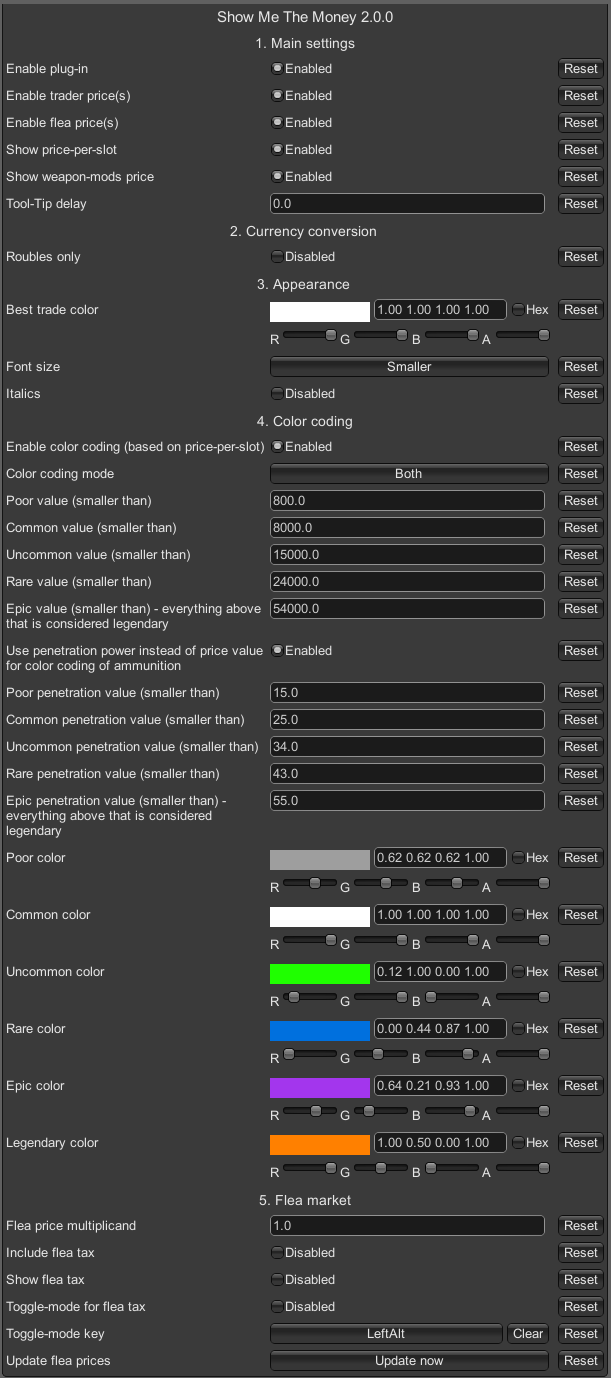
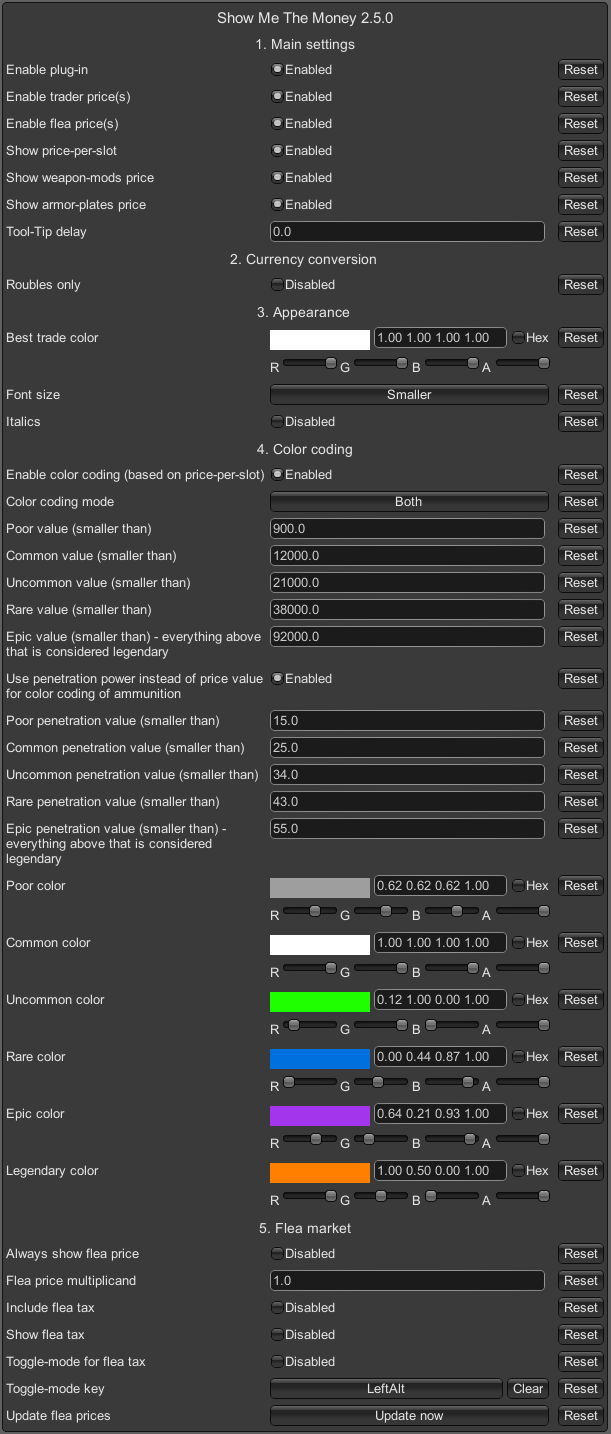
Update to README and Assets.

Changed region(s): [[0.0, 0.0, 1.0, 1.0], [0.0, 0.6553, 0.1866, 0.8425]]

diff --git a/README.md b/README.md
@@ -2,7 +2,7 @@ A BepInEx plugin and an accompanying server mod for SPT (Single Player Tarkov).
 
 ![Preview Image MOD](https://raw.githubusercontent.com/swiftxp-hub/spt-show-me-the-money/refs/heads/main/Assets/preview.png)
 
-Notice: A quick-sell companion mod is available [here](https://forge.sp-tarkov.com/mod/2323/show-me-the-money-quick-sell).
+**Notice:** A quick-sell companion mod is available [here](https://forge.sp-tarkov.com/mod/2323/show-me-the-money-quick-sell).
 
 ___
 
@@ -11,13 +11,15 @@ ___
 ### SPT 4.0.x
 #### What does it do?
 
-The BepInEx plugin modifies the in-game tooltip of items to display price information (in stash and in raid). The dealer who would buy the item for the best price and an average price for the flea market is displayed. The display is divided into "price-per-slot" and "total"-price. The best offer is highlighted. Also flea market taxes can be included. Version >=1.5.0 adds a color coding feature (by default the color scheme familiar from WoW, ranging from poor to legendary).
+The BepInEx plugin modifies the in-game item tooltip to display price information (both in stash and in raid). It shows the trader who offers the best purchase price for the item, as well as the flea market price that targets a 100% sell chance. The display is divided into "price per slot" and "total price," with the best offer highlighted. Flea market taxes can also be included.
 
-The accompanying server mod provides an endpoint for the BepInEx plugin, which is used to retrieve the flea market prices.
+Version 1.5.0 and later add a color-coding feature (by default using the familiar World of Warcraft color scheme, ranging from *poor* to *legendary*).
 
-Several configuration options are offered via the BepInEx configurator.
+The accompanying server mod provides an endpoint for the BepInEx plugin, which is used to retrieve flea market prices.
 
-The mod is written in such a way that the load on the SPT-server is as low as possible.
+Several configuration options are available through the BepInEx configurator.
+
+The mod is designed to minimize the load on the SPT server.
 
 #### Requirements
 
@@ -25,21 +27,21 @@ Basically none.
 
 #### Installation
 
-##### If you have a completely normal installation of SP-Tarkov (everything inside one folder, on one machine, like the SPT-Installer is doing it):
+##### If you have a completely normal installation of SP-Tarkov (everything inside one folder, on one machine, as the SPT Installer sets it up):
 
-Extract the contents of the .zip or .7z file into your SPT directory. 
+Extract the contents of the `.zip` or `.7z` file into your SPT directory. 
 
-You should end up having the following files copied to your SPT directory:
+You should end up with the following files copied to your SPT directory:
 ```
 - C:\yourSPTfolder\BepInEx\plugins\com.swiftxp.spt.showmethemoney\SwiftXP.SPT.ShowMeTheMoney.Client.dll
 - C:\yourSPTfolder\SPT\user\mods\com.swiftxp.spt.showmethemoney\SwiftXP.SPT.ShowMeTheMoney.Server.dll
 ```
 
-##### If you have your client and your server separated:
+##### If you have your client and server separated:
 
-Extract the "BepInEx" folder from the .zip or .7z to your client and extract the "user" folder to your server.
+Extract the `BepInEx` folder from the `.zip` or `.7z` file to your client, and extract the `user` folder to your server.
 
-You should end up having the following files copied...
+You should end up with the following files copied...
 
 ... on your client:
 ```
@@ -52,56 +54,59 @@ You should end up having the following files copied...
 
 ##### If you use the Fika headless client
 
-There is no need to install anything to your Fika headless client for this mod to work properly. I would actually recommend to NOT install my mod on your Fika headless client. This also means that I recommend to add my mod to your Exclusions.json, if you use [Corter's Mod Sync](https://github.com/c-orter/ModSync). [Please see his FAQ on how to add sync-exclusions](https://github.com/c-orter/ModSync/wiki/Configuration#exclusions).
+There is no need to install anything to your Fika headless client for this mod to work properly. In fact, I recommend **not** installing my mod on your Fika headless client.  
+This also means I recommend adding my mod to your `Exclusions.json` if you use [Corter's Mod Sync](https://github.com/c-orter/ModSync).  
+[Please see his FAQ on how to add sync exclusions.](https://github.com/c-orter/ModSync/wiki/Configuration#exclusions)
 
 #### Configuration
 
-Please use the BepInEx configurator to configure features of the mod (usually accessible by pressing F12 or F1 when you are in-game):
+Please use the BepInEx configurator to adjust the mod’s features (usually accessible by pressing **F12** or **F1** while in-game):
 
 ![BepInEx Plugin Configuration](https://raw.githubusercontent.com/swiftxp-hub/spt-show-me-the-money/refs/heads/main/Assets/plugin-configuration.png)
 
-As you can see, you can also manually trigger the plugin to retrieve the current flea market prices from your SPT server (this can be useful when you installed [DrakiaXYZ's SPT-LiveFleaPrices](https://forge.sp-tarkov.com/mod/1131/live-flea-prices) - however, the flea market prices are updated regulary).
+As you can see, you can also manually trigger the plugin to retrieve the current flea market prices from your SPT server.  
+This can be useful if you have installed [DrakiaXYZ's SPT-LiveFleaPrices](https://forge.sp-tarkov.com/mod/1131/live-flea-prices) — however, flea market prices are updated regularly.
 
-Just for clarifcation: This does not trigger DrakiaXYZ's SPT-LiveFleaPrices to query the latest flea prices, but my mod queries the latest flea prices from your SPT server (which are set by SPT-LiveFleaPrices).
+Just for clarification: This does not trigger DrakiaXYZ's SPT-LiveFleaPrices to query the latest flea prices. Instead, my mod retrieves the latest flea prices from your SPT server (which are set by SPT-LiveFleaPrices).
 
 #### Remarks
 
-- Changes on the Trader Price Markups (e.g. editable via SVM) are taken into account by this mod.
-- I have tried to support multiple languages, but if you notice any problems, please let me know in the comments. Disabling the color coding feature may help in the meantime.
+- Changes to trader price markups (e.g., editable via SVM) are taken into account by this mod.
+- I have tried to support multiple languages, but if you notice any problems, please let me know in the comments. Disabling the color-coding feature may help in the meantime.
 
 #### Known compatibility
 
-- [SPT-LiveFleaPrices](https://forge.sp-tarkov.com/mod/1131/live-flea-prices) v2.0.1 or newer by DrakiaXYZ
-- [UIFixes](https://forge.sp-tarkov.com/mod/1342/ui-fixes) v5.0.2 or newer by Tyfon
+- [SPT-LiveFleaPrices](https://forge.sp-tarkov.com/mod/1131/live-flea-prices) v2.0.1 or newer by DrakiaXYZ  
+- [UIFixes](https://forge.sp-tarkov.com/mod/1342/ui-fixes) v5.0.5 or newer by Tyfon  
+- [ODT's Item Info - SPT 4.0](https://forge.sp-tarkov.com/mod/2430/odts-item-info-spt-40) v2.0.2 or newer by kobethuy  
+  - ODT’s color coding works differently from the color coding in my mod.  
+  - ODT will overwrite the color coding of the item name, but the color coding of the prices displayed in the tooltip will remain unchanged.
 
 #### Planned features/changes
-- Fix bug that the damage report/health condition screen my rarely show the price information tooltip.
-- Take the condition of an item into account for the flea market price.
-- Take armour plates into account for the flea market price.
+- ...
 
 #### Known problems
 
-- The condition of an item is not taken into account for the flea market price. This means that the price is always displayed as if the item were in perfect condition.
-- Armour plates are not taken into account for the flea market price.
-- The damage report/health condition screen may rarely show the price information tooltip. I'm almost tempted not to fix it. It's too funny.
-- A buddy of mine has a minor problem with the "Toggle-mode for flea tax" where the tooltip sometimes gets "stuck"—meaning the display doesn't jump back when he releases Left-Alt. I haven't been able to figure out what's causing the problem yet. But he also told me that he doesn't think it's a big deal.
-- Some weapons have suffixes in their names, such as "Carbine." These are not always colored by the color coding feature.
+- A friend of mine has a minor issue with the "Toggle mode for flea tax," where the tooltip sometimes gets “stuck” (the display doesn’t revert when Left-Alt is released). I haven’t been able to figure out the cause yet, but he told me it’s not a big deal.
+- Some weapons have suffixes in their names (e.g., “Carbine”). These are not always colored by the color-coding feature.
 
 #### Problems that may occur
 
 - Price information for traders added by other mods may or may not work.
-- The "Toggle-mode for flea tax"-feature is implemented in such a way that other mods that modify the tooltip should still work, but still... if you encounter problems, please let me know in the comments.
+- The "Toggle mode for flea tax" feature is implemented to allow compatibility with other tooltip-modifying mods. However, if you encounter issues, please let me know in the comments.
 
 ### SPT 3.11.x
 #### What does it do?
 
-The BepInEx plugin modifies the in-game tooltip of items to display price information (in stash and in raid). The dealer who would buy the item for the best price and an average price for the flea market is displayed. The display is divided into "price-per-slot" and "total"-price. The best offer is highlighted. Also flea market taxes can be included. Version >=1.5.0 adds a color coding feature (by default the color scheme familiar from WoW, ranging from poor to legendary).
+The BepInEx plugin modifies the in-game item tooltip to display price information (in stash and in raid). It shows the trader who offers the best purchase price for the item, as well as the average flea market price. The display is divided into "price per slot" and "total price," with the best offer highlighted. Flea market taxes can also be included.  
 
-The accompanying server mod provides several endpoints for the BepInEx plugin, which are used to retrieve the trader prices for EUR and USD and the flea market prices.
+Version 1.5.0 and later add a color-coding feature (by default using the familiar World of Warcraft color scheme, ranging from *poor* to *legendary*).
 
-Several configuration options are offered via the BepInEx configurator.
+The accompanying server mod provides several endpoints for the BepInEx plugin, which are used to retrieve trader prices (in EUR and USD) and flea market prices.
 
-The mod is written in such a way that the load on the SPT-server is as low as possible.
+Several configuration options are available through the BepInEx configurator.
+
+The mod is designed to minimize the load on the SPT server.
 
 #### Requirements
 
@@ -109,22 +114,22 @@ Basically none.
 
 #### Installation
 
-##### If you have a completely normal installation of SP-Tarkov (everything inside one folder, on one machine, like the SPT-Installer is doing it):
+##### If you have a completely normal installation of SP-Tarkov (everything inside one folder, on one machine, as the SPT Installer sets it up):
 
-Extract the contents of the .zip or .7z file into your SPT directory. 
+Extract the contents of the `.zip` or `.7z` file into your SPT directory. 
 
-You should end up having the following files copied to your SPT directory:
+You should end up with the following files copied to your SPT directory:
 ```
 - C:\yourSPTfolder\BepInEx\plugins\SwiftXP.ShowMeTheMoney.dll
 - C:\yourSPTfolder\user\mods\swiftxp-showmethemoney\package.json
 - C:\yourSPTfolder\user\mods\swiftxp-showmethemoney\src\mod.ts
 ```
 
-##### If you have your client and your server separated:
+##### If you have your client and server separated:
 
-Extract the "BepInEx" folder from the .zip or .7z to your client and extract the "user" folder to your server.
+Extract the `BepInEx` folder from the `.zip` or `.7z` file to your client, and extract the `user` folder to your server.
 
-You should end up having the following files copied...
+You should end up with the following files copied...
 
 ... on your client:
 ```
@@ -139,47 +144,50 @@ You should end up having the following files copied...
 
 ##### If you use the Fika headless client
 
-There is no need to install anything to your Fika headless client for this mod to work properly. I would actually recommend to NOT install my mod on your Fika headless client. This also means that I recommend to add my mod to your Exclusions.json, if you use [Corter's Mod Sync](https://github.com/c-orter/ModSync). [Please see his FAQ on how to add sync-exclusions](https://github.com/c-orter/ModSync/wiki/Configuration#exclusions).
+There is no need to install anything to your Fika headless client for this mod to work properly. In fact, I recommend **not** installing my mod on your Fika headless client.  
+This also means I recommend adding my mod to your `Exclusions.json` if you use [Corter's Mod Sync](https://github.com/c-orter/ModSync).  
+[Please see his FAQ on how to add sync exclusions.](https://github.com/c-orter/ModSync/wiki/Configuration#exclusions)
 
 #### Configuration
 
-Please use the BepInEx configurator to configure features of the mod (usually accessible by pressing F12 or F1 when you are in-game):
+Please use the BepInEx configurator to adjust the mod’s features (usually accessible by pressing **F12** or **F1** while in-game):
 
 ![BepInEx Plugin Configuration](https://raw.githubusercontent.com/swiftxp-hub/spt-show-me-the-money/refs/heads/main-spt311/Assets/plugin-configuration.png)
 
-![Demonstration of toggle-mode for flea tax](https://raw.githubusercontent.com/swiftxp-hub/spt-show-me-the-money/refs/heads/main-spt311/Assets/toggle-tax-sample.gif)
+![Demonstration of toggle mode for flea tax](https://raw.githubusercontent.com/swiftxp-hub/spt-show-me-the-money/refs/heads/main-spt311/Assets/toggle-tax-sample.gif)
 
-As you can see, you can also manually trigger the plugin to retrieve the current flea market prices from your SPT server (this can be useful when you installed [DrakiaXYZ's SPT-LiveFleaPrices](https://forge.sp-tarkov.com/mod/1131/live-flea-prices) - however, the flea market prices are updated regulary).
+As you can see, you can also manually trigger the plugin to retrieve the current flea market prices from your SPT server.  
+This can be useful if you have installed [DrakiaXYZ's SPT-LiveFleaPrices](https://forge.sp-tarkov.com/mod/1131/live-flea-prices) — however, flea market prices are updated regularly.
 
-Just for clarifcation: This does not trigger DrakiaXYZ's SPT-LiveFleaPrices to query the latest flea prices, but my mod queries the latest flea prices from your SPT server (which are set by SPT-LiveFleaPrices).
+Just for clarification: This does not trigger DrakiaXYZ's SPT-LiveFleaPrices to query the latest flea prices. Instead, my mod retrieves the latest flea prices from your SPT server (which are set by SPT-LiveFleaPrices).
 
 #### Remarks
 
-- Changes on the Trader Price Markups (e.g. editable via SVM) are taken into account by this mod.
-- I have tried to support multiple languages, but if you notice any problems, please let me know in the comments. Disabling the color coding feature may help in the meantime.
+- Changes to trader price markups (e.g., editable via SVM) are taken into account by this mod.
+- I have tried to support multiple languages, but if you notice any problems, please let me know in the comments. Disabling the color-coding feature may help in the meantime.
 
 #### Known compatibility
 
-- [SPT-LiveFleaPrices](https://forge.sp-tarkov.com/mod/1131/live-flea-prices) v1.5.2 by DrakiaXYZ
-- [More Checkmarks](https://forge.sp-tarkov.com/mod/861/morecheckmarks) v1.5.17 by TommySoucy
+- [SPT-LiveFleaPrices](https://forge.sp-tarkov.com/mod/1131/live-flea-prices) v1.5.2 by DrakiaXYZ  
+- [More Checkmarks](https://forge.sp-tarkov.com/mod/861/morecheckmarks) v1.5.17 by TommySoucy  
 - [UIFixes](https://forge.sp-tarkov.com/mod/1342/ui-fixes) v4.2.2 by Tyfon
 
 #### Known problems
 
-- The condition of an item is not taken into account for the flea market price. This means that the price is always displayed as if the item were in perfect condition.
-- Armour plates are not taken into account for the flea market price.
-- The damage report/health condition screen may rarely show the price information tooltip. I'm almost tempted not to fix it. It's too funny.
-- A buddy of mine has a minor problem with the "Toggle-mode for flea tax" where the tooltip sometimes gets "stuck"—meaning the display doesn't jump back when he releases Left-Alt. I haven't been able to figure out what's causing the problem yet. But he also told me that he doesn't think it's a big deal.
-- Some weapons have suffixes in their names, such as "Carbine." These are not always colored by the color coding feature.
+- The condition of an item is not taken into account for the flea market price. This means the price is always displayed as if the item were in perfect condition.  
+- Armor plates are not taken into account for the flea market price.  
+- The damage report/health condition screen may rarely show the price information tooltip. I'm almost tempted not to fix it — it’s too funny.  
+- A friend of mine has a minor issue with the "Toggle mode for flea tax," where the tooltip sometimes gets “stuck” (the display doesn’t revert when Left-Alt is released). I haven’t been able to figure out the cause yet, but he told me it’s not a big deal.  
+- Some weapons have suffixes in their names (e.g., “Carbine”). These are not always colored by the color-coding feature.
 
 #### Problems that may occur
 
-- Price information for traders added by other mods may or may not work. E.g. [Couturier](https://forge.sp-tarkov.com/mod/2239/couturier-gear-and-clothing-pack) v1.2.0 by turbodestroyer seems to work fine.
-- The "Toggle-mode for flea tax"-feature is implemented in such a way that other mods that modify the tooltip should still work, but still... if you encounter problems, please let me know in the comments.
+- Price information for traders added by other mods may or may not work (e.g., [Couturier](https://forge.sp-tarkov.com/mod/2239/couturier-gear-and-clothing-pack) v1.2.0 by turbodestroyer seems to work fine).  
+- The "Toggle mode for flea tax" feature is implemented to allow compatibility with other tooltip-modifying mods. However, if you encounter issues, please let me know in the comments.
 
 #### Support for 3.11.x
 
-I will try to continue supporting SPT 3.11.x as long as the SPT team also supports this version. However, I cannot promise this 100%. Support will be limited to bug fixes and minor adjustments.
+I will try to continue supporting SPT 3.11.x as long as the SPT team supports this version. However, I cannot promise this 100%. Support will be limited to bug fixes and minor adjustments.
 
 {.endtabset}
 
@@ -191,8 +199,8 @@ Please note that I maintain all my mods in my spare time. Therefore, I can only 
 
 ##### Motivation behind this mod
 
-Me and my friends are playing SPT in coop with FIKA. Until now, we have always used a different mod from another modder to display the best prices for items. Unfortunately, I realized that this mod put a lot of strain on our very small VServer we use for the SPT-server. A lot of small requests were being sent to the SPT-server. This regularly led to quite severe lags. Our tiny little VServer was not able to keep up.
+My friends and I play SPT in co-op using FIKA. Until now, we had been using another mod to display the best prices for items. Unfortunately, I realized that this mod placed a significant load on our small VServer running the SPT server. A large number of small requests were being sent, which regularly caused severe lag. Our tiny VServer simply couldn’t keep up.
 
-Since I had wanted to create mods for SPT for quite some time, I took this as an opportunity to write a new plugin for us with the premise to put as little pressure on the SPT-server as possible. Now that we have been using it for a while, I have decided to make it publicly available.
+Since I had wanted to create mods for SPT for quite some time, I took this as an opportunity to write a new plugin for us — one designed to put as little strain on the SPT server as possible. After we had used it for a while and were satisfied with its performance, I decided to make it publicly available.
 
-Shout-out to the SPT-Team and all other SPT modders out there. You're amazing!
+**Shout-out to the SPT team and all other SPT modders out there — you're amazing!**
